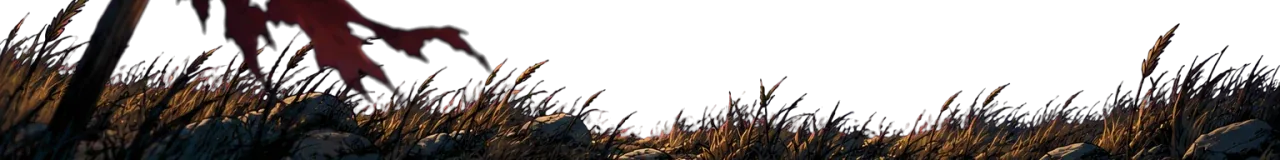
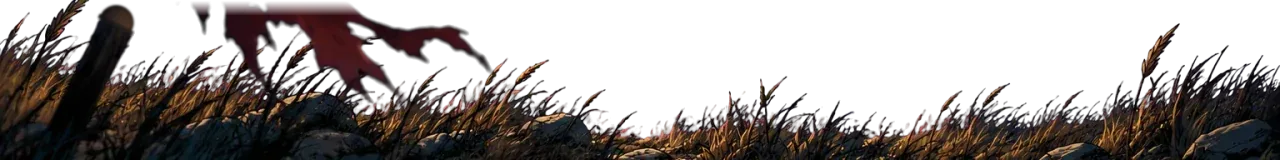
Stage 8 WIP: T1-T11 in progress (Codex session 1 end) + Game Art Taim/bg8fg update

Changed region(s): [[0.0625, 0.0, 0.2812, 0.1875]]

diff --git a/docs/stage8/ART-MANIFEST.md b/docs/stage8/ART-MANIFEST.md
@@ -7,7 +7,7 @@ Paths mirror the repo root (copy `assets/` into jfeldman9-rgb/riley-wheel-brawl)
 | File | Key | Pixels | Frames | Bytes | Decoded MiB | Plan cap | Source draft |
 |---|---|---|---|---|---|---|---|
 | `assets/bg8/bg8far.jpg` | `bg8far` | 1280×580 |  | 159,617 | 2.83 |  | far8_v1.png |
-| `assets/bg8/bg8fg.webp` | `bg8fg` | 1280×160 |  | 59,186 | 0.78 |  | fg8_v1.png strip 1 |
+| `assets/bg8/bg8fg.webp` | `bg8fg` | 1280×160 |  | 57,608 | 0.78 |  | fg8_v1.png strip 1 (+ code-painted pole finial, flag top fade) |
 | `assets/bg8/bg8fg2.webp` | `bg8fg2` | 1280×160 |  | 52,238 | 0.78 |  | fg8_v1.png strip 2 |
 | `assets/bg8/bg8floor.jpg` | `bg8floor` | 1280×360 |  | 150,030 | 1.76 |  | floors8_v1.png strip 1 |
 | `assets/bg8/bg8floor2.jpg` | `bg8floor2` | 1280×360 |  | 121,679 | 1.76 |  | floors8_v1.png strip 2 |
@@ -27,7 +27,7 @@ Paths mirror the repo root (copy `assets/` into jfeldman9-rgb/riley-wheel-brawl)
 | `assets/stage8/chars/s8perrin.webp` | `s8perrin` | 1291×157 | 8 | 61,792 | 0.77 | 0.8 | perrin_v1.png |
 | `assets/stage8/chars/s8sister.webp` | `s8sister` | 1999×210 | 16 | 108,470 | 1.60 | 2.5 | sister_v1.png |
 | `assets/stage8/chars/s8stonedog.webp` | `s8stonedog` | 1826×197 | 12 | 111,838 | 1.37 | 1.88 | spear8_v1.png (11 poses; frame 9 hurt = alias of 8) |
-| `assets/stage8/chars/s8taim.webp` | `s8taim` | 954×221 | 6 | 58,508 | 0.80 | 1.17 | taim_v1.png cells 0,3,5,1,4 (+0 alias); cells 2,6,7 unused |
+| `assets/stage8/chars/s8taim.webp` | `s8taim` | 957×271 | 6 | 67,632 | 0.99 | 1.17 | taim_extra_v2.png ×0.44 (frames 0 arms_crossed, 3 gate_step) + taim_v1.png cells 3,5,4 (frames 1,2,4); frame 5 = alias of 0 |
 | `assets/stage8/chars/s8twink.webp` | `s8twink` | 1971×159 | 18 | 102,008 | 1.20 | 2.11 | twink_v1.png |
 | `assets/stage8/chars/s8wise.webp` | `s8wise` | 1368×193 | 11 | 95,256 | 1.01 | 1.72 | wise_v1.png |
 | `assets/stage8/chars/s8wolflead.webp` | `s8wolflead` | 680×96 | 8 | 27,634 | 0.25 | 0.5 | wolves_v1.png row 2 |
@@ -62,10 +62,10 @@ Paths mirror the repo root (copy `assets/` into jfeldman9-rgb/riley-wheel-brawl)
 | `assets/stage8/ui/lanfearPortrait.webp` | `lanfearPortrait` | 136×136 |  | 4,968 | 0.07 |  | lanfear_v2.png cell 15 |
 | `assets/stage8/ui/matPortrait.webp` | `matPortrait` | 136×136 |  | 4,144 | 0.07 |  | mat_v1.png cell 9 |
 | `assets/stage8/ui/perrinPortrait.webp` | `perrinPortrait` | 136×136 |  | 6,030 | 0.07 |  | perrin_v1.png cell 9 |
-| `assets/stage8/ui/taimPortrait.webp` | `taimPortrait` | 136×136 |  | 4,790 | 0.07 |  | taim_v1.png cell 9 |
+| `assets/stage8/ui/taimPortrait.webp` | `taimPortrait` | 136×136 |  | 4,822 | 0.07 |  | taim_v1.png cell 9 |
 | `assets/stage8/ui/twinkPortrait.webp` | `twinkPortrait` | 136×136 |  | 4,092 | 0.07 |  | twink_v1.png cell 19 (from behind) |
 
-**Totals:** 58 image files + 14 atlas JSONs, 5.86 MB on disk (stage8.art line 9.0 MB). Story panels (12 × 3.52 MiB) are transient, at most 4 at once.
+**Totals:** 58 image files + 14 atlas JSONs, 5.87 MB on disk (stage8.art line 9.0 MB). Story panels (12 × 3.52 MiB) are transient, at most 4 at once.
 
 ## Residency budget (decoded RGBA, Jason's zone plan: Lanfear set after C6, s8duo + s8link at C6)
 
@@ -74,14 +74,16 @@ Gate: painted sprites/FX/UI ≤ 26 MiB resident; whole stage ≤ 105 MiB source 
 | Phase | Sprites/FX/UI | Plates | Painted total | + Riley 34.30 + 8 |
 |---|---|---|---|---|
 | Z0 hills | 6.84 | 12.33 | 19.17 | 61.5 |
-| Z1 battle slope | 16.08 | 10.78 | 26.86 | 69.2 |
-| Z2 wells + circle, up to C5 (peak) | 24.74 | 12.38 | 37.12 | 79.4 |
-| C6 link: helpers released after C5, circle set released, s8duo + s8link load | 13.29 | 12.38 | 25.67 | 68.0 |
-| Z3 boss: Lanfear set loads after C6 | 21.37 | 8.73 | 30.10 | 72.4 |
+| Z1 battle slope | 16.27 | 10.78 | 27.04 | 69.3 |
+| Z2 wells + circle, up to C5 (peak) | 24.92 | 12.38 | 37.30 | 79.6 |
+| C6 link: helpers released after C5, circle set released, s8duo + s8link load | 13.48 | 12.38 | 25.86 | 68.2 |
+| Z3 boss: Lanfear set loads after C6 | 21.56 | 8.73 | 30.29 | 72.6 |
 
 ## QA (qa/qa8.py → qa/qa8.json)
 - Key fringe: 0 keyed files with magenta/green on >0.2% of edge pixels. Post-fixes: violet/indigo smoke on bg8mid–mid4/fg strips neutralized to grey; faint green cast on Twinkle/duo glows pushed to white-gold, sisters' to white-blue.
-- Frame counts: s8lanfear 23, s8twink 18, s8duo 6, s8stonedog 12 (frame 9 = alias of 8), s8wise 11, s8sister 16, s8ashaman 12, s8taim 6 (plan count; draft cells 2,6,7 unused, frame 5 = alias of 0), s8allies 9, s8mat 8, s8perrin 8, s8loial 8, s8wolfpack 6, s8wolflead 8.
+- Frame counts: s8lanfear 23, s8twink 18, s8duo 6, s8stonedog 12 (frame 9 = alias of 8), s8wise 11, s8sister 16, s8ashaman 12, s8taim 6 (plan count: arms_crossed, fist_shout, channel, gate_step, point, portrait_pose = alias of 0), s8allies 9, s8mat 8, s8perrin 8, s8loial 8, s8wolfpack 6, s8wolflead 8.
 - Slicing: pose sheets re-sliced on the real figure gaps (`slicer8.py`). Touching pairs (Lanfear 4/9, sisters 12/13, Mat 4/5) are cut at the thinnest contact; Lanfear's crown fireball is pinned to its owner with a hint (cut y=328).
 - Lanfear 14–22: lanfear2_v1 scaled ×0.76, not ×0.73. At 0.73 the standing P9b poses came out about 4% short; at 0.76 frames 19/20 are 210/211 px vs 211/211 px for frames 0/1.
-- `preview.jpg` (1100 px wide, about 1.05 MB) is the light copy of `preview.png`.
+- bg8fg: the banner pole ran off the top of the 160 px strip with a flat cut. The pole now ends 6 px below the top under a rounded, shaded bronze finial with a dark iron collar, blurred 1.1 px to match the painted depth blur. The torn flag fades over its top 16 px. Same 1280×160 (0.78 MiB).
+- s8taim: taim_extra_v2 poses replace the stand-ins (arms_crossed was the hand-on-hip stand, gate_step was walk 1). Scaled ×0.44 (727 → 320 px, same as taim_v1's standing cell), so one scale covers the sheet: arms_crossed 216 px vs 219 px fist_shout; gate_step 271 px tall including the doorway. Magenta fringe: rose/salmon rims on the doorway glow and sparks pushed to white-gold (edge and bright pixels only, R ≥ 0.85·B, so blue/violet is never touched). Blue lining: the keyer keeps 100% of it; WebP chroma averaging was the loss, so blue-dominant pixels are pre-emphasised per frame and the sheet is encoded once from the lossless page (blue px after encode vs lossless: 9.6/10.1%, 16.2/16.5, 11.0/11.6, 1.2/1.45, 7.1/7.7). Page 957×271 = 0.99 MiB (was 954×221, 0.80; cap 1.17).
+- `preview.jpg` (1100 px wide) is the light copy of `preview.png`.
